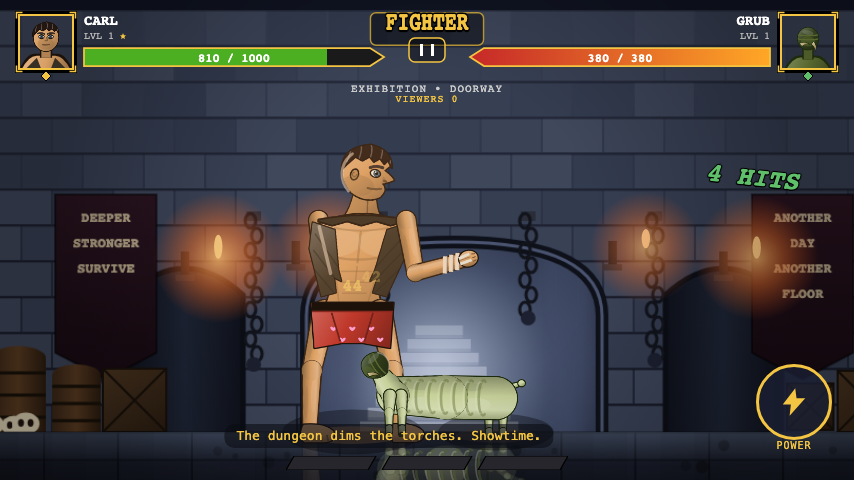
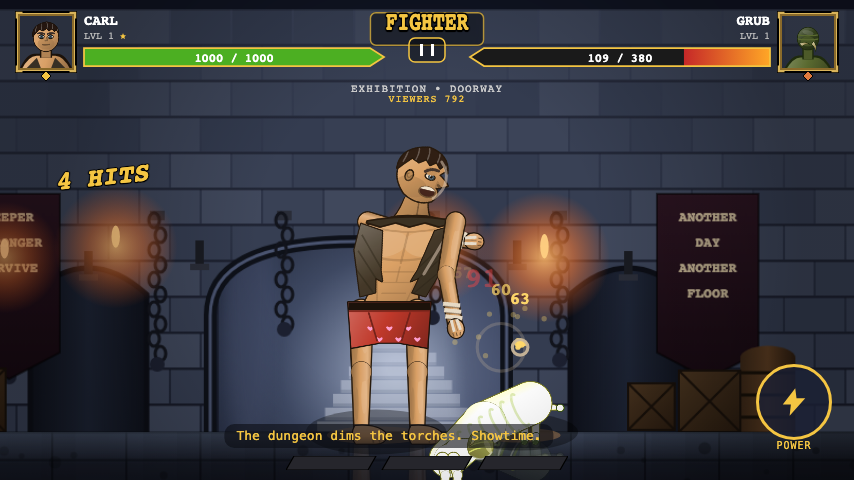
fix: CLS_GEM keyed by the real six classes; ring recolored off brawler gold
Fix round 1 (controller ruling on task 8.4's own flagged concerns):

- CLS_GEM now maps brawler/caster/trickster/tank/rogue/beast --
  the six def.cls values CHAMPS/MOBS/BOSSES actually use -- instead
  of the brief's invented undead/brute entries, which labeled no
  current def. A new test pins that every real def's cls resolves
  to a non-default CLS_GEM entry.
- portraitFrame's ring recolored to a bronze base (#8a6a2a) with a
  brighter highlight edge (#d9b45a), replacing the flat gold that
  used to exactly match CLS_GEM.brawler and make Carl's own gem
  disappear into his frame. A new test pins that no CLS_GEM color
  collides with either ring color.
- Re-shot docs/shots/p8-hud.png via a scripted Ctrl.script chain
  (deterministic --sim + a direct G.tick() loop to combo>=4)
  instead of fighting the wall-clock capture window.

diff --git a/index.html b/index.html
@@ -1653,14 +1653,16 @@ const CLASS_BEATS={brawler:'rogue',rogue:'caster',caster:'brawler',tank:'beast',
 // gem / enemy combo-counter color the HUD draws (70_render.js's portraitFrame/hud) -- presentation
 // reads this table, the sim never does, same boundary CLASS_BEATS above already draws for the
 // pre-fight matchup arrow (that one the sim DOES read; this one only ever reaches a canvas draw).
-// The controller's ruling gives five entries verbatim -- brawler/beast/caster/undead/brute -- kept
-// exactly as given rather than renamed. The roster's actual def.cls vocabulary (see CHAMPS/MOBS/
-// BOSSES above) is brawler/rogue/caster/tank/beast/trickster: 'undead' and 'brute' don't label any
-// current def, and 'rogue'/'tank'/'trickster' aren't in the ruling's table -- `default` covers those
-// so every real roster member still gets a defined gem color instead of an `undefined` fillStyle.
-// See the task report's Concerns for the follow-up this asymmetry flags.
-const CLS_GEM={brawler:'#f4c542',beast:'#5fbf6a',caster:'#9b6bd6',undead:'#d8d0c0',brute:'#c0623a',
-  default:'#9aa0a6'};
+// Fix round 1: the first cut of this table (brawler/beast/caster/undead/brute) used class names the
+// task 8.4 brief invented rather than the six def.cls values CHAMPS/MOBS/BOSSES above actually use
+// (brawler/rogue/caster/tank/beast/trickster) -- flagged in the task 8.4 report's Deviations/Concerns
+// and fixed here with the controller's own corrected ruling: all six real classes now have their own
+// entry (no more `undead`/`brute`, which labeled nothing), so no current def falls back to
+// `default` -- see the "every def's cls has a non-default CLS_GEM entry" test (90_tests.js) that
+// pins this. `default` stays, as a defined fallback for any future class this table hasn't caught up
+// to yet, but nothing in CHAMPS/MOBS/BOSSES should ever actually hit it.
+const CLS_GEM={brawler:'#f4c542',caster:'#9b6bd6',trickster:'#3fbfb0',tank:'#c0623a',rogue:'#5fbf6a',
+  beast:'#e07a3f',default:'#9aa0a6'};
 // Fix-wave item 5 (final review, Important): the minimum CHARGE frames a released heavy still swings
 // at, instead of cancelling outright -- see Fighter.act's own CHARGE branch comment (50_fighter.js).
 // A flat frame count, independent of any per-champion moves.heavy.charge override (goblin 14, hobgoblin
@@ -7034,21 +7036,30 @@ const Render={ctx:canvas.getContext('2d'),
   // as streakGeom/barFillRect -- so portraitFrame's own test can sample the exact pixel the gem fills
   // without re-deriving the layout math.
   gemCenter(x,y,size){return{x:x+size/2,y:y+size+6}},
+  // Fix round 1: the ring used to stroke in the same flat gold (#f4c542) as CLS_GEM.brawler, so
+  // Carl's own gem visually disappeared into his own frame (flagged in the task 8.4 report's
+  // Concerns). Recolored to a darker bronze base with a brighter highlight edge -- neither of which
+  // collides with any CLS_GEM color (see that table's own test, 90_tests.js) -- so every gem,
+  // including brawler's gold, now reads as a distinct badge against the frame instead of the frame's
+  // own metal.
+  PORTRAIT_RING_BASE:'#8a6a2a',PORTRAIT_RING_HILITE:'#d9b45a',
   // Task 8.4 ruling: an ornate class-gem portrait frame, replacing the plain gold strokeRect that used
-  // to ring each 56px portrait bust (Rig.portrait) -- a two-ring beveled frame (dark outer bevel + gold
-  // inner ring, four short corner ticks for the "ornate" read) plus a small diamond gem tinted per the
-  // fighter's own class via CLS_GEM (40_movedata.js), centered at gemCenter(x,y,size) above. Purely
-  // decorative: draws AROUND the existing 56x56 portrait image already drawn at (x,y) by hud(), never
-  // changes the portrait's own pixel size or any of hud()'s p1x/p2x/barX layout numbers the HUD-
-  // clearance and phone-layout tests already pin. Bottom extent (y+size+11, see gemCenter's +6 plus
-  // this gem's own 5px radius) stays comfortably clear of HUD_LINE (104) -- see 10_util.js's own
-  // HUD_LINE comment, updated alongside this.
+  // to ring each 56px portrait bust (Rig.portrait) -- a two-ring beveled frame (dark outer bevel,
+  // then a thin bright highlight edge, then the bronze base ring just outside the portrait itself,
+  // four short corner ticks for the "ornate" read) plus a small diamond gem tinted per the fighter's
+  // own class via CLS_GEM (40_movedata.js), centered at gemCenter(x,y,size) above. Purely decorative:
+  // draws AROUND the existing 56x56 portrait image already drawn at (x,y) by hud(), never changes the
+  // portrait's own pixel size or any of hud()'s p1x/p2x/barX layout numbers the HUD-clearance and
+  // phone-layout tests already pin. Bottom extent (y+size+11, see gemCenter's +6 plus this gem's own
+  // 5px radius) stays comfortably clear of HUD_LINE (104) -- see 10_util.js's own HUD_LINE comment,
+  // updated alongside this.
   portraitFrame(c,x,y,size,cls){
     const gem=CLS_GEM[cls]||CLS_GEM.default;
     c.save();
     c.strokeStyle='#000';c.lineWidth=3;c.strokeRect(x-1.5,y-1.5,size+3,size+3);
-    c.strokeStyle='#f4c542';c.lineWidth=2;c.strokeRect(x+1,y+1,size-2,size-2);
-    c.strokeStyle='#f4c542';c.lineWidth=1.5;
+    c.strokeStyle=this.PORTRAIT_RING_HILITE;c.lineWidth=1;c.strokeRect(x-.5,y-.5,size+1,size+1);
+    c.strokeStyle=this.PORTRAIT_RING_BASE;c.lineWidth=2;c.strokeRect(x+1,y+1,size-2,size-2);
+    c.strokeStyle=this.PORTRAIT_RING_HILITE;c.lineWidth=1.5;
     const tick=6;
     [[x-1.5,y-1.5,1,1],[x+size+1.5,y-1.5,-1,1],[x-1.5,y+size+1.5,1,-1],[x+size+1.5,y+size+1.5,-1,-1]]
       .forEach(([cx,cy,dx,dy])=>{c.beginPath();c.moveTo(cx,cy+dy*tick);c.lineTo(cx,cy);c.lineTo(cx+dx*tick,cy);c.stroke()});
@@ -14638,13 +14649,14 @@ Test.add('Render.barFillRect (chevron bar geometry): the filled region is exactl
   const full1=Render.barFillRect(x,y,w,h,1,'right'),full2=Render.barFillRect(x,y,w,h,1,'left');
   eq(full1.x,full2.x,'a full bar must start at the same x on both sides');
   eq(full1.w,full2.w,'a full bar must have the same width on both sides')});
-Test.add('HUD.portraitFrame draws a class-gem badge colored by CLS_GEM[cls], with a defined fallback for a def.cls the ruling\'s table doesn\'t cover',()=>{
+Test.add('HUD.portraitFrame draws a class-gem badge colored by CLS_GEM[cls], with a defined fallback for a class the table doesn\'t cover',()=>{
   const cnv=document.createElement('canvas');cnv.width=80;cnv.height=90;
   const c=cnv.getContext('2d');
   const hex=h=>{const n=parseInt(h.slice(1),16);return[(n>>16)&255,(n>>8)&255,n&255]};
-  // brawler/beast/caster are in the ruling's own CLS_GEM table verbatim; 'tank' is a real def.cls
-  // (mongo/hobgoblin/grull) the ruling's table never names -- exercises CLS_GEM.default.
-  for(const cls of['brawler','beast','caster','tank']){
+  // Fix round 1: all six real def.cls values now have their own CLS_GEM entry (see that table's own
+  // comment, 40_movedata.js) -- 'totally-unmapped-class' stands in for a future class not yet added,
+  // exercising CLS_GEM.default without relying on any current def falling back to it.
+  for(const cls of['brawler','caster','trickster','tank','rogue','beast','totally-unmapped-class']){
     c.clearRect(0,0,80,90);
     Render.portraitFrame(c,8,8,56,cls);
     const p=Render.gemCenter(8,8,56);
@@ -14652,6 +14664,22 @@ Test.add('HUD.portraitFrame draws a class-gem badge colored by CLS_GEM[cls], wit
     const want=hex(CLS_GEM[cls]||CLS_GEM.default);
     eq(d[0],want[0],cls+' gem red channel');eq(d[1],want[1],cls+' gem green channel');eq(d[2],want[2],cls+' gem blue channel')}
   ok(CLS_GEM.brawler!==CLS_GEM.default,'sanity: a mapped class and the fallback must actually be different colors')});
+Test.add('CLS_GEM: every CHAMPS/MOBS/BOSSES def\'s cls maps to a defined, non-default gem color -- no class silently falls back to grey',()=>{
+  const defs=Object.assign({},CHAMPS,MOBS,BOSSES);
+  for(const id in defs){
+    const cls=defs[id].cls;
+    ok(CLS_GEM.hasOwnProperty(cls),id+'\'s cls ('+cls+') has no CLS_GEM entry at all');
+    ok(CLS_GEM[cls]!==CLS_GEM.default,id+'\'s cls ('+cls+') falls back to CLS_GEM.default -- give it a real entry')}});
+Test.add('HUD.portraitFrame\'s ring color never collides with any CLS_GEM color, so every gem (including brawler\'s gold) reads as a distinct badge against the frame',()=>{
+  ok(/^#[0-9a-f]{6}$/i.test(Render.PORTRAIT_RING_BASE||''),
+    'Render.PORTRAIT_RING_BASE must be a real hex color, got '+JSON.stringify(Render.PORTRAIT_RING_BASE));
+  ok(/^#[0-9a-f]{6}$/i.test(Render.PORTRAIT_RING_HILITE||''),
+    'Render.PORTRAIT_RING_HILITE must be a real hex color, got '+JSON.stringify(Render.PORTRAIT_RING_HILITE));
+  const ringColors=[Render.PORTRAIT_RING_BASE,Render.PORTRAIT_RING_HILITE];
+  for(const gemCls in CLS_GEM){
+    const gem=CLS_GEM[gemCls];
+    ok(!ringColors.includes(gem),
+      'CLS_GEM.'+gemCls+' ('+gem+') exactly matches a portrait-frame ring color -- that gem would blend into its own frame')}});
 Test.add('Render.comboDisplay tweens the shown combo count up to the real count over at most 8 frames, never exceeding it',()=>{
   Render._comboTween={};
   eq(Render.comboDisplay('p1',0,0),0,'a fresh, never-started combo must show 0');

diff --git a/src/90_tests.js b/src/90_tests.js
@@ -5552,13 +5552,14 @@ Test.add('Render.barFillRect (chevron bar geometry): the filled region is exactl
   const full1=Render.barFillRect(x,y,w,h,1,'right'),full2=Render.barFillRect(x,y,w,h,1,'left');
   eq(full1.x,full2.x,'a full bar must start at the same x on both sides');
   eq(full1.w,full2.w,'a full bar must have the same width on both sides')});
-Test.add('HUD.portraitFrame draws a class-gem badge colored by CLS_GEM[cls], with a defined fallback for a def.cls the ruling\'s table doesn\'t cover',()=>{
+Test.add('HUD.portraitFrame draws a class-gem badge colored by CLS_GEM[cls], with a defined fallback for a class the table doesn\'t cover',()=>{
   const cnv=document.createElement('canvas');cnv.width=80;cnv.height=90;
   const c=cnv.getContext('2d');
   const hex=h=>{const n=parseInt(h.slice(1),16);return[(n>>16)&255,(n>>8)&255,n&255]};
-  // brawler/beast/caster are in the ruling's own CLS_GEM table verbatim; 'tank' is a real def.cls
-  // (mongo/hobgoblin/grull) the ruling's table never names -- exercises CLS_GEM.default.
-  for(const cls of['brawler','beast','caster','tank']){
+  // Fix round 1: all six real def.cls values now have their own CLS_GEM entry (see that table's own
+  // comment, 40_movedata.js) -- 'totally-unmapped-class' stands in for a future class not yet added,
+  // exercising CLS_GEM.default without relying on any current def falling back to it.
+  for(const cls of['brawler','caster','trickster','tank','rogue','beast','totally-unmapped-class']){
     c.clearRect(0,0,80,90);
     Render.portraitFrame(c,8,8,56,cls);
     const p=Render.gemCenter(8,8,56);
@@ -5566,6 +5567,22 @@ Test.add('HUD.portraitFrame draws a class-gem badge colored by CLS_GEM[cls], wit
     const want=hex(CLS_GEM[cls]||CLS_GEM.default);
     eq(d[0],want[0],cls+' gem red channel');eq(d[1],want[1],cls+' gem green channel');eq(d[2],want[2],cls+' gem blue channel')}
   ok(CLS_GEM.brawler!==CLS_GEM.default,'sanity: a mapped class and the fallback must actually be different colors')});
+Test.add('CLS_GEM: every CHAMPS/MOBS/BOSSES def\'s cls maps to a defined, non-default gem color -- no class silently falls back to grey',()=>{
+  const defs=Object.assign({},CHAMPS,MOBS,BOSSES);
+  for(const id in defs){
+    const cls=defs[id].cls;
+    ok(CLS_GEM.hasOwnProperty(cls),id+'\'s cls ('+cls+') has no CLS_GEM entry at all');
+    ok(CLS_GEM[cls]!==CLS_GEM.default,id+'\'s cls ('+cls+') falls back to CLS_GEM.default -- give it a real entry')}});
+Test.add('HUD.portraitFrame\'s ring color never collides with any CLS_GEM color, so every gem (including brawler\'s gold) reads as a distinct badge against the frame',()=>{
+  ok(/^#[0-9a-f]{6}$/i.test(Render.PORTRAIT_RING_BASE||''),
+    'Render.PORTRAIT_RING_BASE must be a real hex color, got '+JSON.stringify(Render.PORTRAIT_RING_BASE));
+  ok(/^#[0-9a-f]{6}$/i.test(Render.PORTRAIT_RING_HILITE||''),
+    'Render.PORTRAIT_RING_HILITE must be a real hex color, got '+JSON.stringify(Render.PORTRAIT_RING_HILITE));
+  const ringColors=[Render.PORTRAIT_RING_BASE,Render.PORTRAIT_RING_HILITE];
+  for(const gemCls in CLS_GEM){
+    const gem=CLS_GEM[gemCls];
+    ok(!ringColors.includes(gem),
+      'CLS_GEM.'+gemCls+' ('+gem+') exactly matches a portrait-frame ring color -- that gem would blend into its own frame')}});
 Test.add('Render.comboDisplay tweens the shown combo count up to the real count over at most 8 frames, never exceeding it',()=>{
   Render._comboTween={};
   eq(Render.comboDisplay('p1',0,0),0,'a fresh, never-started combo must show 0');

diff --git a/src/70_render.js b/src/70_render.js
@@ -318,21 +318,30 @@ const Render={ctx:canvas.getContext('2d'),
   // as streakGeom/barFillRect -- so portraitFrame's own test can sample the exact pixel the gem fills
   // without re-deriving the layout math.
   gemCenter(x,y,size){return{x:x+size/2,y:y+size+6}},
+  // Fix round 1: the ring used to stroke in the same flat gold (#f4c542) as CLS_GEM.brawler, so
+  // Carl's own gem visually disappeared into his own frame (flagged in the task 8.4 report's
+  // Concerns). Recolored to a darker bronze base with a brighter highlight edge -- neither of which
+  // collides with any CLS_GEM color (see that table's own test, 90_tests.js) -- so every gem,
+  // including brawler's gold, now reads as a distinct badge against the frame instead of the frame's
+  // own metal.
+  PORTRAIT_RING_BASE:'#8a6a2a',PORTRAIT_RING_HILITE:'#d9b45a',
   // Task 8.4 ruling: an ornate class-gem portrait frame, replacing the plain gold strokeRect that used
-  // to ring each 56px portrait bust (Rig.portrait) -- a two-ring beveled frame (dark outer bevel + gold
-  // inner ring, four short corner ticks for the "ornate" read) plus a small diamond gem tinted per the
-  // fighter's own class via CLS_GEM (40_movedata.js), centered at gemCenter(x,y,size) above. Purely
-  // decorative: draws AROUND the existing 56x56 portrait image already drawn at (x,y) by hud(), never
-  // changes the portrait's own pixel size or any of hud()'s p1x/p2x/barX layout numbers the HUD-
-  // clearance and phone-layout tests already pin. Bottom extent (y+size+11, see gemCenter's +6 plus
-  // this gem's own 5px radius) stays comfortably clear of HUD_LINE (104) -- see 10_util.js's own
-  // HUD_LINE comment, updated alongside this.
+  // to ring each 56px portrait bust (Rig.portrait) -- a two-ring beveled frame (dark outer bevel,
+  // then a thin bright highlight edge, then the bronze base ring just outside the portrait itself,
+  // four short corner ticks for the "ornate" read) plus a small diamond gem tinted per the fighter's
+  // own class via CLS_GEM (40_movedata.js), centered at gemCenter(x,y,size) above. Purely decorative:
+  // draws AROUND the existing 56x56 portrait image already drawn at (x,y) by hud(), never changes the
+  // portrait's own pixel size or any of hud()'s p1x/p2x/barX layout numbers the HUD-clearance and
+  // phone-layout tests already pin. Bottom extent (y+size+11, see gemCenter's +6 plus this gem's own
+  // 5px radius) stays comfortably clear of HUD_LINE (104) -- see 10_util.js's own HUD_LINE comment,
+  // updated alongside this.
   portraitFrame(c,x,y,size,cls){
     const gem=CLS_GEM[cls]||CLS_GEM.default;
     c.save();
     c.strokeStyle='#000';c.lineWidth=3;c.strokeRect(x-1.5,y-1.5,size+3,size+3);
-    c.strokeStyle='#f4c542';c.lineWidth=2;c.strokeRect(x+1,y+1,size-2,size-2);
-    c.strokeStyle='#f4c542';c.lineWidth=1.5;
+    c.strokeStyle=this.PORTRAIT_RING_HILITE;c.lineWidth=1;c.strokeRect(x-.5,y-.5,size+1,size+1);
+    c.strokeStyle=this.PORTRAIT_RING_BASE;c.lineWidth=2;c.strokeRect(x+1,y+1,size-2,size-2);
+    c.strokeStyle=this.PORTRAIT_RING_HILITE;c.lineWidth=1.5;
     const tick=6;
     [[x-1.5,y-1.5,1,1],[x+size+1.5,y-1.5,-1,1],[x-1.5,y+size+1.5,1,-1],[x+size+1.5,y+size+1.5,-1,-1]]
       .forEach(([cx,cy,dx,dy])=>{c.beginPath();c.moveTo(cx,cy+dy*tick);c.lineTo(cx,cy);c.lineTo(cx+dx*tick,cy);c.stroke()});

diff --git a/src/40_movedata.js b/src/40_movedata.js
@@ -178,14 +178,16 @@ const CLASS_BEATS={brawler:'rogue',rogue:'caster',caster:'brawler',tank:'beast',
 // gem / enemy combo-counter color the HUD draws (70_render.js's portraitFrame/hud) -- presentation
 // reads this table, the sim never does, same boundary CLASS_BEATS above already draws for the
 // pre-fight matchup arrow (that one the sim DOES read; this one only ever reaches a canvas draw).
-// The controller's ruling gives five entries verbatim -- brawler/beast/caster/undead/brute -- kept
-// exactly as given rather than renamed. The roster's actual def.cls vocabulary (see CHAMPS/MOBS/
-// BOSSES above) is brawler/rogue/caster/tank/beast/trickster: 'undead' and 'brute' don't label any
-// current def, and 'rogue'/'tank'/'trickster' aren't in the ruling's table -- `default` covers those
-// so every real roster member still gets a defined gem color instead of an `undefined` fillStyle.
-// See the task report's Concerns for the follow-up this asymmetry flags.
-const CLS_GEM={brawler:'#f4c542',beast:'#5fbf6a',caster:'#9b6bd6',undead:'#d8d0c0',brute:'#c0623a',
-  default:'#9aa0a6'};
+// Fix round 1: the first cut of this table (brawler/beast/caster/undead/brute) used class names the
+// task 8.4 brief invented rather than the six def.cls values CHAMPS/MOBS/BOSSES above actually use
+// (brawler/rogue/caster/tank/beast/trickster) -- flagged in the task 8.4 report's Deviations/Concerns
+// and fixed here with the controller's own corrected ruling: all six real classes now have their own
+// entry (no more `undead`/`brute`, which labeled nothing), so no current def falls back to
+// `default` -- see the "every def's cls has a non-default CLS_GEM entry" test (90_tests.js) that
+// pins this. `default` stays, as a defined fallback for any future class this table hasn't caught up
+// to yet, but nothing in CHAMPS/MOBS/BOSSES should ever actually hit it.
+const CLS_GEM={brawler:'#f4c542',caster:'#9b6bd6',trickster:'#3fbfb0',tank:'#c0623a',rogue:'#5fbf6a',
+  beast:'#e07a3f',default:'#9aa0a6'};
 // Fix-wave item 5 (final review, Important): the minimum CHARGE frames a released heavy still swings
 // at, instead of cancelling outright -- see Fighter.act's own CHARGE branch comment (50_fighter.js).
 // A flat frame count, independent of any per-champion moves.heavy.charge override (goblin 14, hobgoblin
